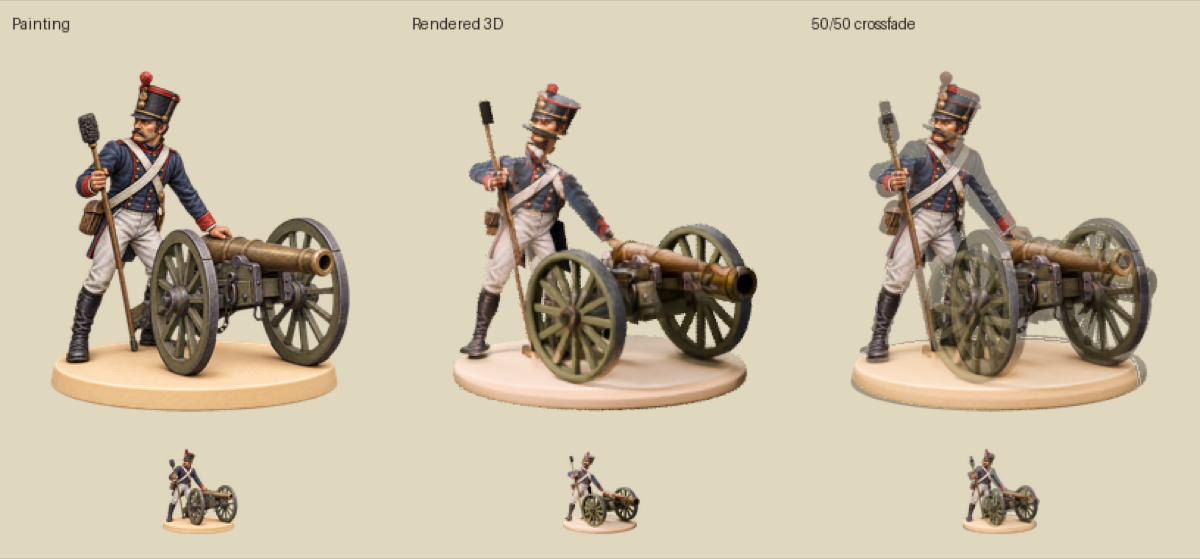
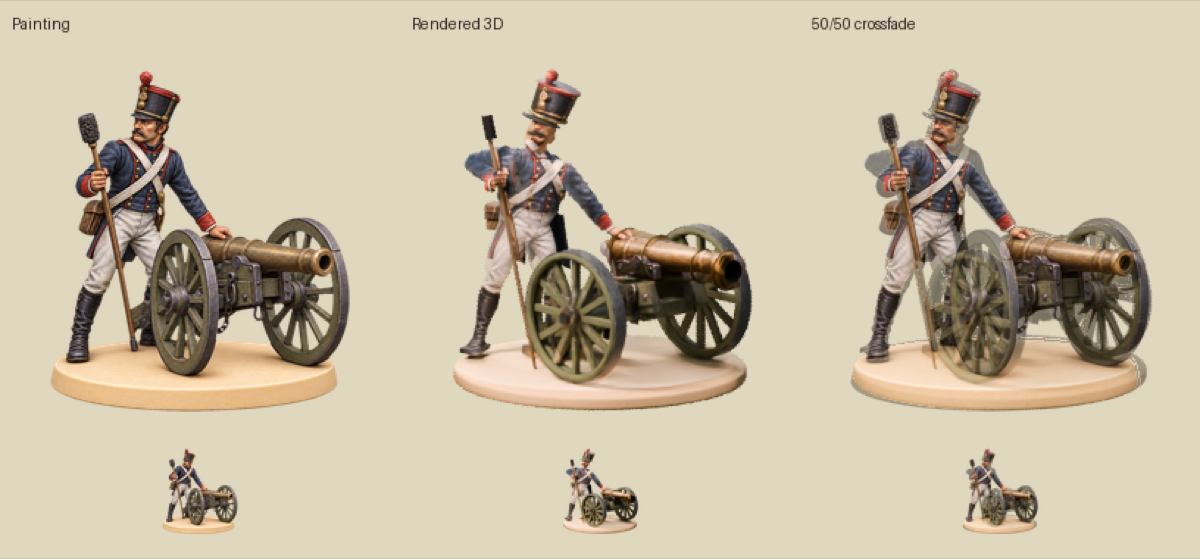
3D spearman interim review images

diff --git a/tools/art/anim3d/review/spearman-log.md b/tools/art/anim3d/review/spearman-log.md
@@ -6,3 +6,4 @@
 - Motion critique: idle subtle, move reads as marching but lifted foot texture fragments are visible; attack is readable with stretched shoulder paint; death cape forms a rigid triangular shelf. Supplied movie is sequential rather than five clips side by side. No PASS warranted.
 - Read all 216 lines/all chapters of PLAYBOOK, all 22 shared feedback items and entire spearman feedback; loaded modeling, materials, cameras, lighting, animation and rendering Blender skills. Read project instructions, art skill, asset licences and source prompt.
 - Plan: align actual shield relief and crest before frozen UV projection, prevent base paint leaking onto feet, retain generated backside fills and modeled straps/folds; keep one fixed histogram grade. Add unit-local 160 px trimmed packing, independent decoded validation, 512/256 master export and an eight-second five-column movie plus executable GPU entry point.
+- First round-4 preview caught a reversed-normal assumption in the shield mask: it blanked the painting. Fixed the visibility test using ray distance (compatible with the existing shell winding) and rerendered before proceeding. Shield ornament is now much cleaner; no failed preview is treated as passing evidence.

diff --git a/tools/art/anim3d/review/field-cannon-log.md b/tools/art/anim3d/review/field-cannon-log.md
@@ -102,3 +102,4 @@
 - FINAL GIT: committed code de7bec7 and delivery f79c7ef on astra/unit-anim-3d-siege in .worktrees/siege-round2. Working tree clean; origin/master already ancestor. No push or master merge. Lead: run tools/art/anim3d/siege/gpu-final.sh from that checkout, then general art gate outside sandbox and art review.
 - ROUND 3 FIRST REVIEW: Opened c-textured-lit, f-restpose-compare and all five e strips before edits. The named round2.mp4 and gpu-logs-field-cannon-r2.log are absent; inspected a frame from the available round1 MP4 instead, not claimed as round2 GPU evidence. At256 the body is narrow/angular, face points down, right arm reaches sideways instead of holding the rammer near the chest, wheel/barrel landmarks disagree and base shadows are too strong. At64 cannon identity survives but pose/negative-space silhouette does not match. Death still lifts the cannon unnaturally; smoke resembles solid pellets. No PASS. Loaded all six Blender skills; prioritize registration and real geometry before more surface noise.
 - Posted field-cannon-c-textured-lit.png; actual CYCLES render, visual review pending.
+- Posted field-cannon-c-textured-lit.png; actual CYCLES render, visual review pending.
